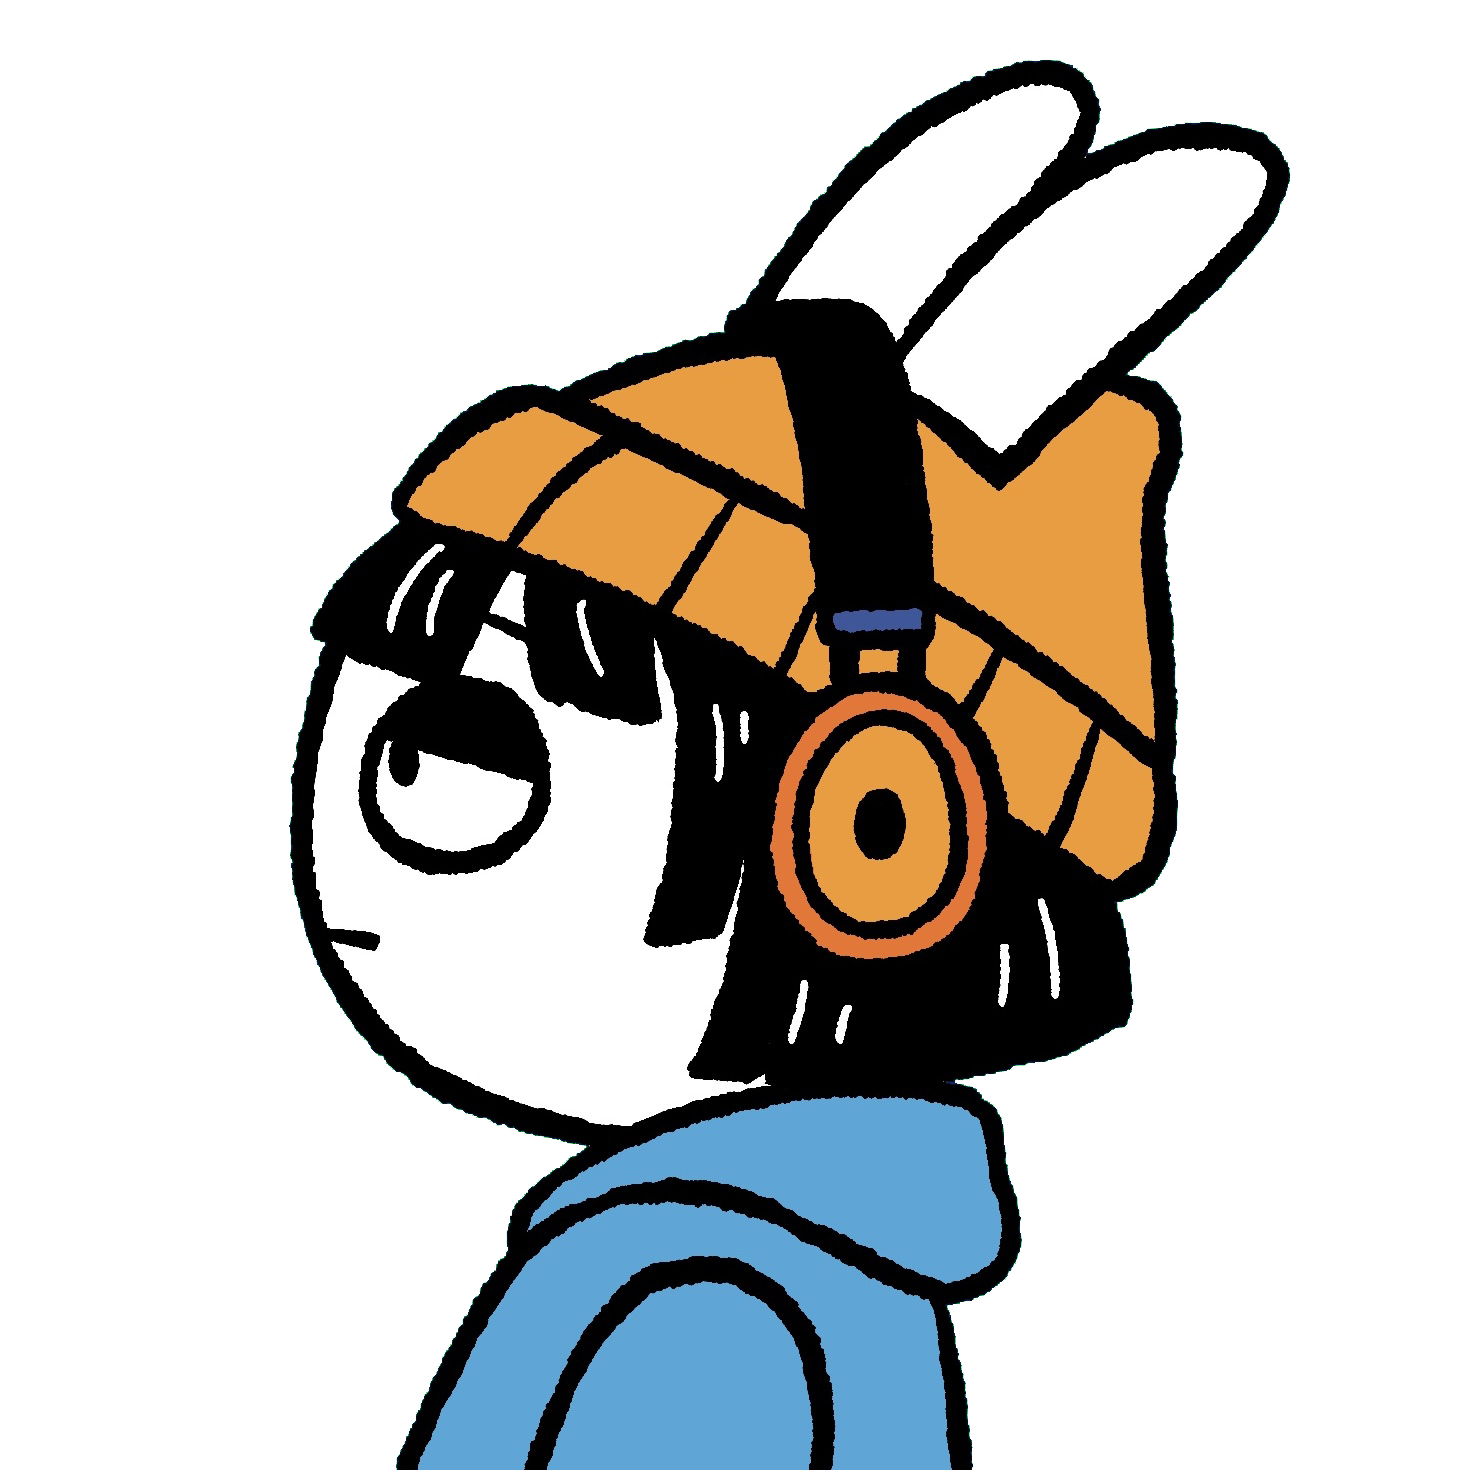
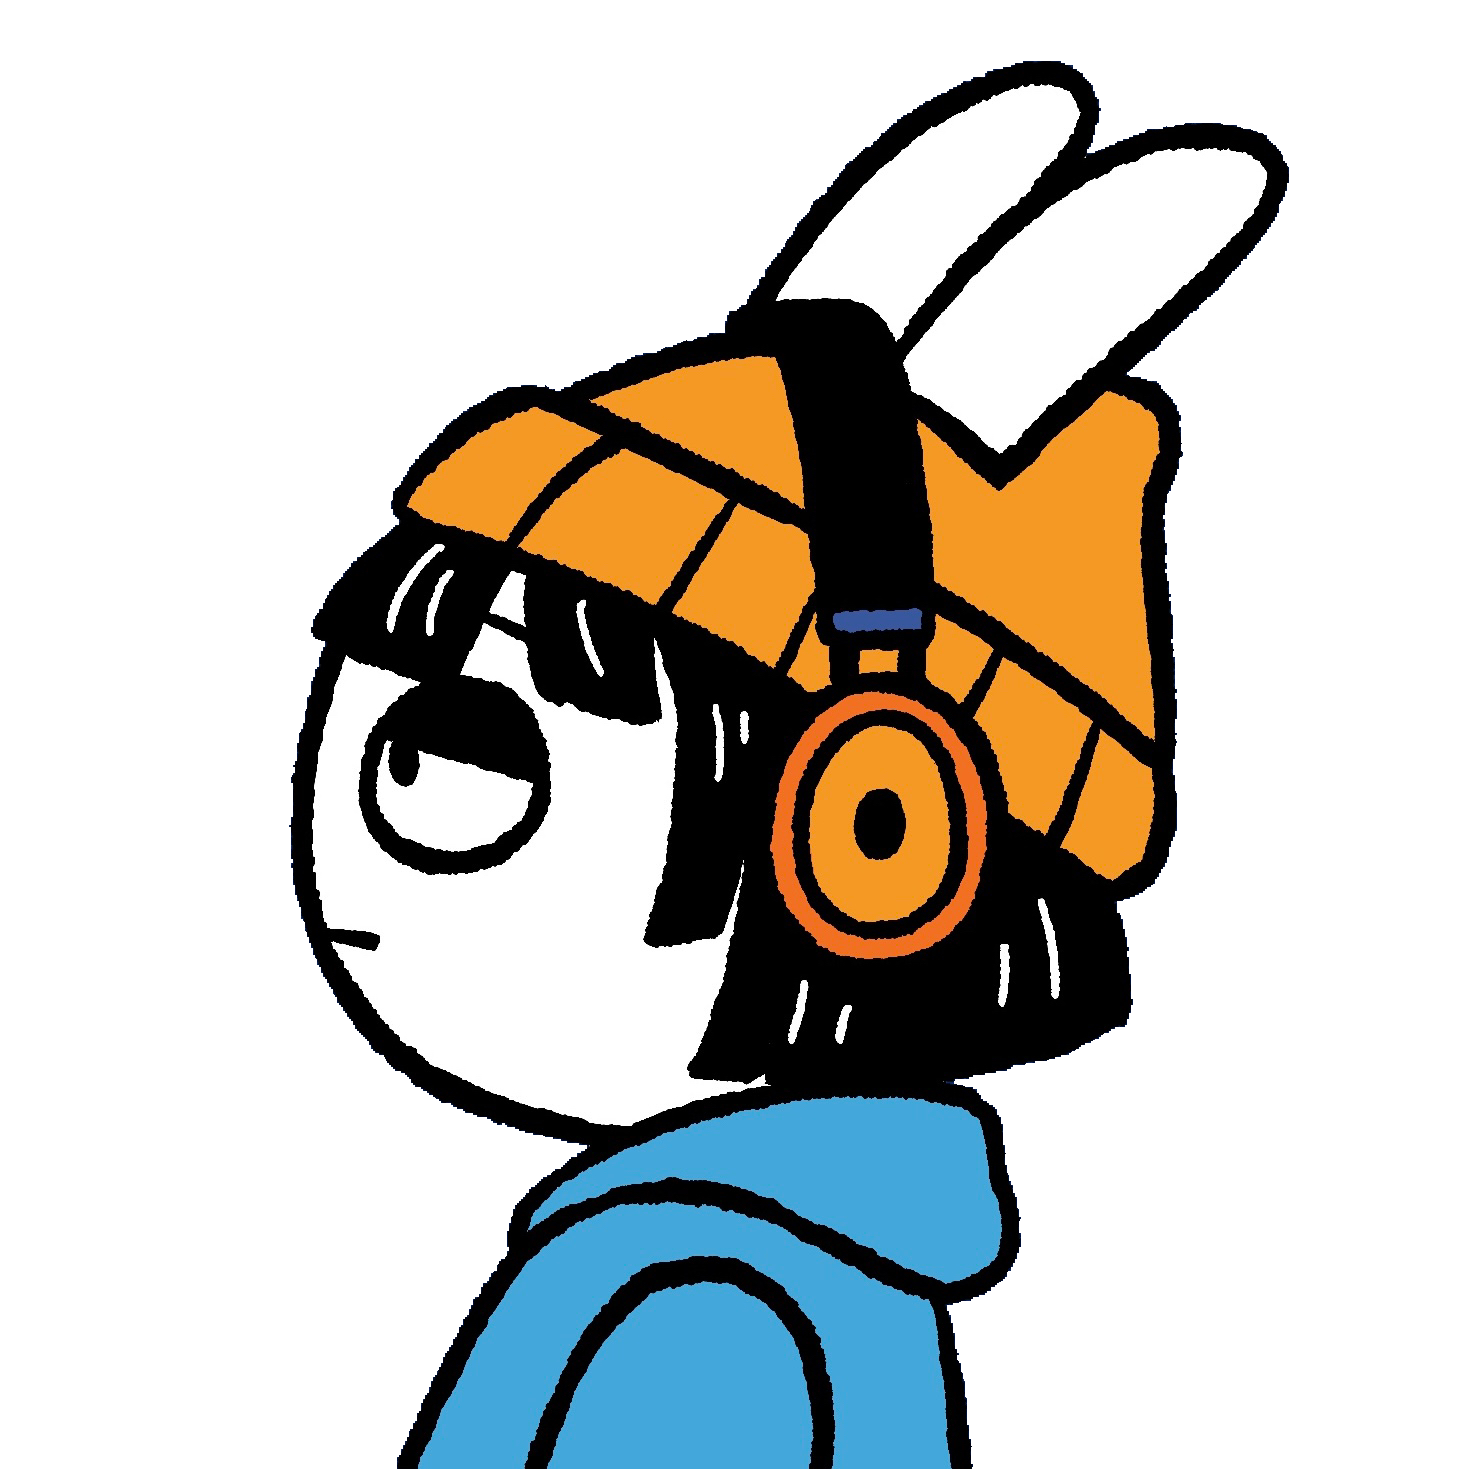
v3.0.3

Changed region(s): [[0.2755, 0.2449, 0.7959, 0.6429], [0.2755, 0.7347, 0.7041, 1.0]]

diff --git a/src/components/about/ProfileCard.tsx b/src/components/about/ProfileCard.tsx
@@ -42,15 +42,15 @@ const ProfileCard = () => {
             </H1>
             <Paragraph sx={{
               opacity: 0.7,
-              fontSize: "18px",
+              fontSize: "16px",
               lineHeight: 1.6
             }}>
               {t("about.subtitle")}
             </Paragraph>
           </Box>
           <Avatar src={Profile} alt="Profile" sx={{
-            width: { xs: "72px", md: "96px" },
-            height: { xs: "72px", md: "96px" },
+            width: "84px",
+            height: "84px",
             border: "2px solid var(--text-main)"
           }}
           />
